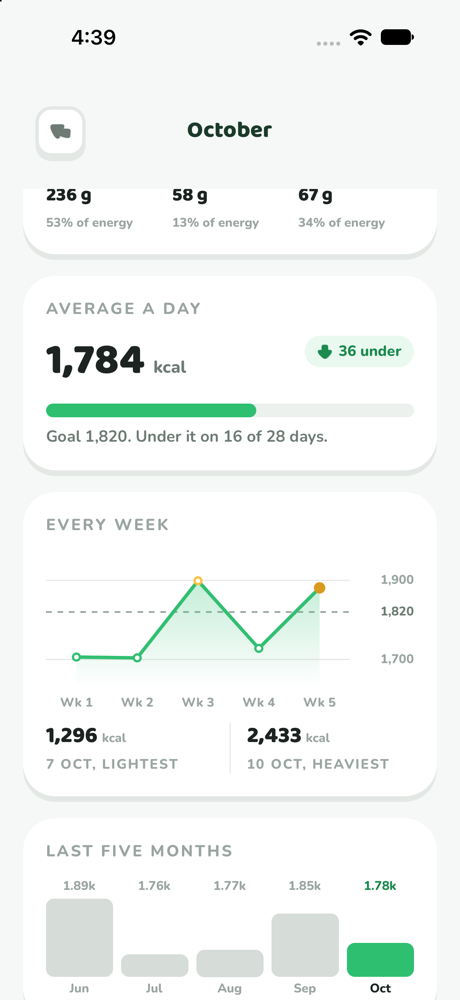
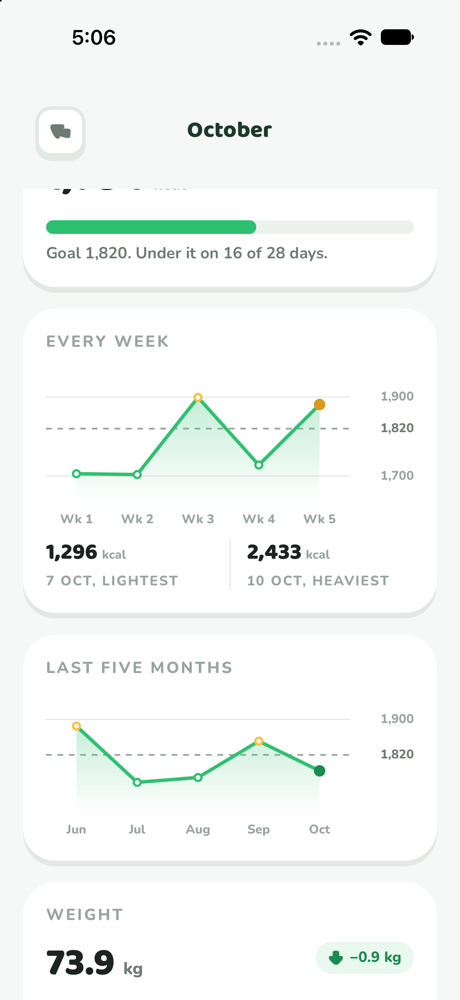
Review charts are lines too: the last five periods and steps a day
The last five weeks or months drew as fat bars from a floor, which made a
hundred calories look like half the week, and steps a day as bars. Both are
now the Trends line, with the goal dashed and the current period the solid
dot at the end. PeriodBars is gone.

diff --git a/apps/mobile/src/features/reviews/CaloriesStep.tsx b/apps/mobile/src/features/reviews/CaloriesStep.tsx
@@ -6,7 +6,6 @@ import type { ReviewBucket, ReviewKind, ReviewPeriod, ReviewSummary } from '@/da
 import { TrendLine } from '@/features/progress'
 import { useThemeColors } from '@/theme/useTheme'
 import { Badge, Card, Icon, ProgressBar, Text } from '@/ui'
-import { PeriodBars } from './PeriodBars'
 import { underGoalShare } from './period'
 import { Shareable } from './ShareableCards'
 
@@ -186,16 +185,24 @@ export function CaloriesStep({ kind, summary, buckets, periods }: CaloriesStepPr
             }
             contentClassName="gap-3 p-card"
           >
-            <PeriodBars
+            {/* The same line as every other chart here: one dot a period,
+                this one the solid dot at the end, the budget dashed. Fat bars
+                from a floor read as amounts and made a 100 kcal difference
+                look like half the week. */}
+            <TrendLine
               className="mt-1"
               height={104}
-              bars={compared.map((period) => ({
+              gaps="join"
+              goal={goal}
+              minPad={50}
+              interactive={false}
+              dotTone={(value) => (goal !== null && value > goal ? 'kaya' : 'pandan')}
+              points={compared.map((period) => ({
                 key: period.start,
                 label: format(parseISO(period.start), kind === 'week' ? 'd MMM' : 'LLL'),
-                value: period.kcal === null ? t('reviews:calories.noData') : thousands(period.kcal),
-                height: barHeight(period.kcal, compared),
-                current: period.start === summary.start,
+                value: period.kcal === null ? null : Math.round(period.kcal),
               }))}
+              formatValue={(value) => Math.round(value).toLocaleString()}
               accessibilityLabel={
                 kind === 'week' ? t('reviews:calories.pastWeeks') : t('reviews:calories.pastMonths')
               }
@@ -205,33 +212,6 @@ export function CaloriesStep({ kind, summary, buckets, periods }: CaloriesStepPr
       ) : null}
     </>
   )
-}
-
-/** "1.96k", which is what fits over a fifth of a card. */
-function thousands(kcal: number): string {
-  return `${(kcal / 1000).toFixed(2)}k`
-}
-
-/**
- * How tall one comparison bar is, measured against the SPREAD of the five
- * rather than from zero.
- *
- * Five weeks of one person's eating sit within a few hundred calories of each
- * other, so bars drawn from zero are five rectangles of the same height and the
- * chart says nothing the figures above it did not. The floor is a tenth of the
- * spread below the smallest, which keeps the lightest period a short bar rather
- * than no bar. A period with nothing logged has no height at all and draws as
- * the stub `PeriodBars` gives it.
- */
-function barHeight(kcal: number | null, all: readonly ReviewPeriod[]): number {
-  if (kcal === null) return 0
-
-  const values = all.map((period) => period.kcal).filter((value): value is number => value !== null)
-  const peak = Math.max(...values)
-  const low = Math.min(...values)
-  const floor = low - (peak - low) * 0.4
-  const span = peak - floor || 1
-  return (kcal - floor) / span
 }
 
 /**

diff --git a/apps/mobile/src/features/reviews/BodyStep.tsx b/apps/mobile/src/features/reviews/BodyStep.tsx
@@ -4,7 +4,6 @@ import { View } from 'react-native'
 
 import type { ReviewBucket, ReviewKind, ReviewSummary } from '@/data'
 import { TrendLine } from '@/features/progress'
-import { BarChart } from '@/features/shared'
 import { showChange, showWeight, type WeightUnit } from '@/lib/units'
 import { volume } from '@/lib/water'
 import { useThemeColors } from '@/theme/useTheme'
@@ -143,18 +142,25 @@ export function BodyStep({ kind, summary, buckets, unit }: BodyStepProps) {
               ) : null}
             </View>
 
-            <BarChart
+            {/* A line from zero with the step goal dashed: a day on or over
+                it is pandan, one short of it kaya, as on Trends. */}
+            <TrendLine
               height={78}
-              bars={buckets.map((bucket, position) => ({
+              fromZero
+              goal={summary.stepGoal || null}
+              minPad={500}
+              interactive={false}
+              dotTone={(value) => (value >= (summary.stepGoal ?? 0) ? 'pandan' : 'kaya')}
+              points={buckets.map((bucket, position) => ({
                 key: bucket.start,
                 label:
                   kind === 'week'
                     ? format(parseISO(bucket.start), 'EEEEE')
                     : t('progress:range.week', { index: position + 1 }),
-                value: Math.round(bucket.steps ?? 0),
-                // Green where the goal was met, grey where it was not.
-                highlight: (bucket.steps ?? 0) >= (summary.stepGoal ?? 0),
+                value: bucket.steps === null ? null : Math.round(bucket.steps),
               }))}
+              gaps="join"
+              formatValue={(value) => Math.round(value).toLocaleString()}
               accessibilityLabel={t('reviews:body.stepsChart')}
             />
           </Card>

diff --git a/apps/mobile/src/features/reviews/index.ts b/apps/mobile/src/features/reviews/index.ts
@@ -11,7 +11,6 @@ export { BodyStep, type BodyStepProps } from './BodyStep'
 export { CaloriesStep, type CaloriesStepProps } from './CaloriesStep'
 export { CardStep, type CardStepProps } from './CardStep'
 export { FoodStep, type FoodStepProps } from './FoodStep'
-export { type PeriodBar, PeriodBars, type PeriodBarsProps } from './PeriodBars'
 export {
   LATEST,
   parseReviewId,

diff --git a/README.md b/README.md
@@ -4282,9 +4282,11 @@ is the workout count in place of the streak whenever there was one.
 **The list leads with the newest period.** It is drawn as its own card with
 calories, workouts and the weight change large; older rows carry the same
 figures in a line, each behind the drawing its Trends card wears. Workouts are
-left off every row for an account that has not trained in the window. The
-"every day" chart in a review is the Trends line: a dot a column, the budget
-dashed, a day over it in kaya.
+left off every row for an account that has not trained in the window. Every chart in
+a review is the Trends line: calories every day, the last five periods and steps
+a day each draw a dot a column with their goal dashed, the current period the
+solid dot at the end. The fat comparison bars are gone; drawn from a floor they
+made a hundred calories look like half the week.
 
 **A tap on a card shares it.** Every card draws itself into a picture through
 Skia's `makeImageFromView` and offers it in a sheet with a Share button. The
